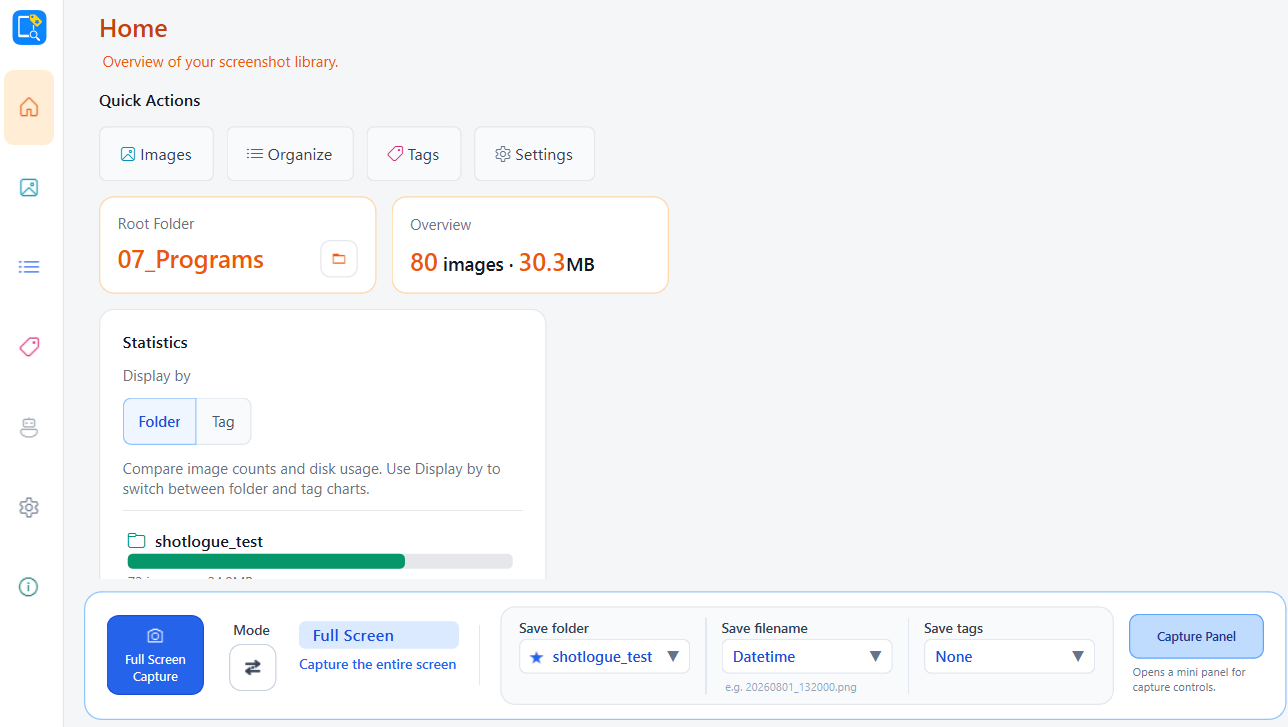
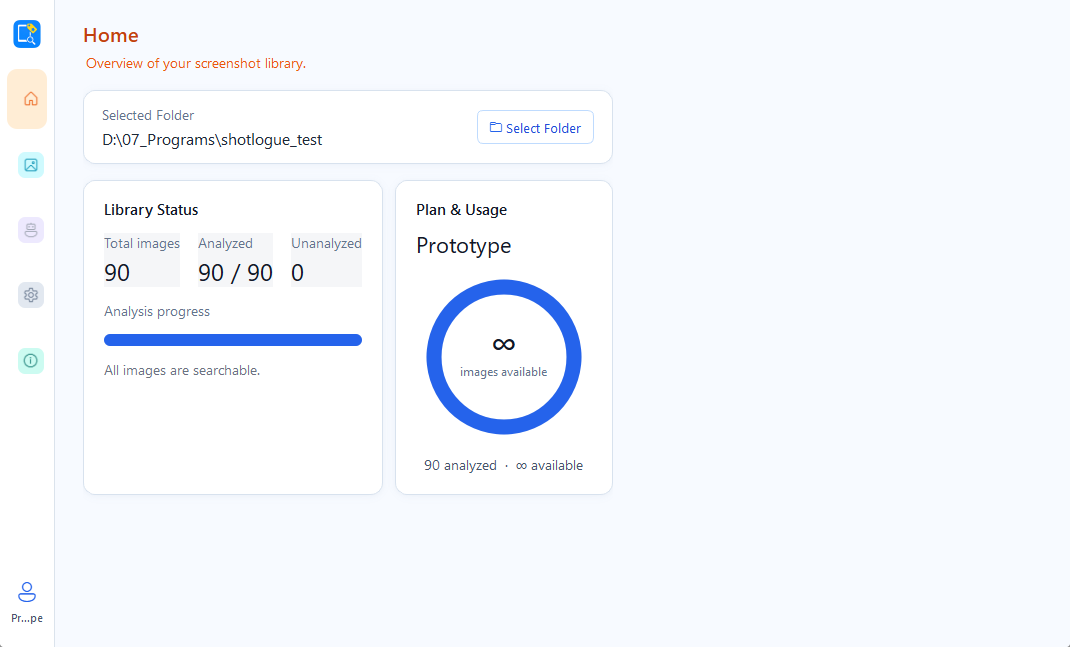
Update landing page screenshots

diff --git a/website/index.html b/website/index.html
@@ -74,8 +74,8 @@
           </div>
           <figure class="hero-visual">
             <img
-              src="assets/screenshots/images-search.png"
-              alt="Capixe Images screen showing search results for the keyword logs"
+              src="assets/screenshots/images.png"
+              alt="Capixe Images screen showing the Folder, Analyze, and Search workflow"
             />
             <figcaption class="hero-visual-caption">
               Search by the words you remember. Get back to the work in front of you.
